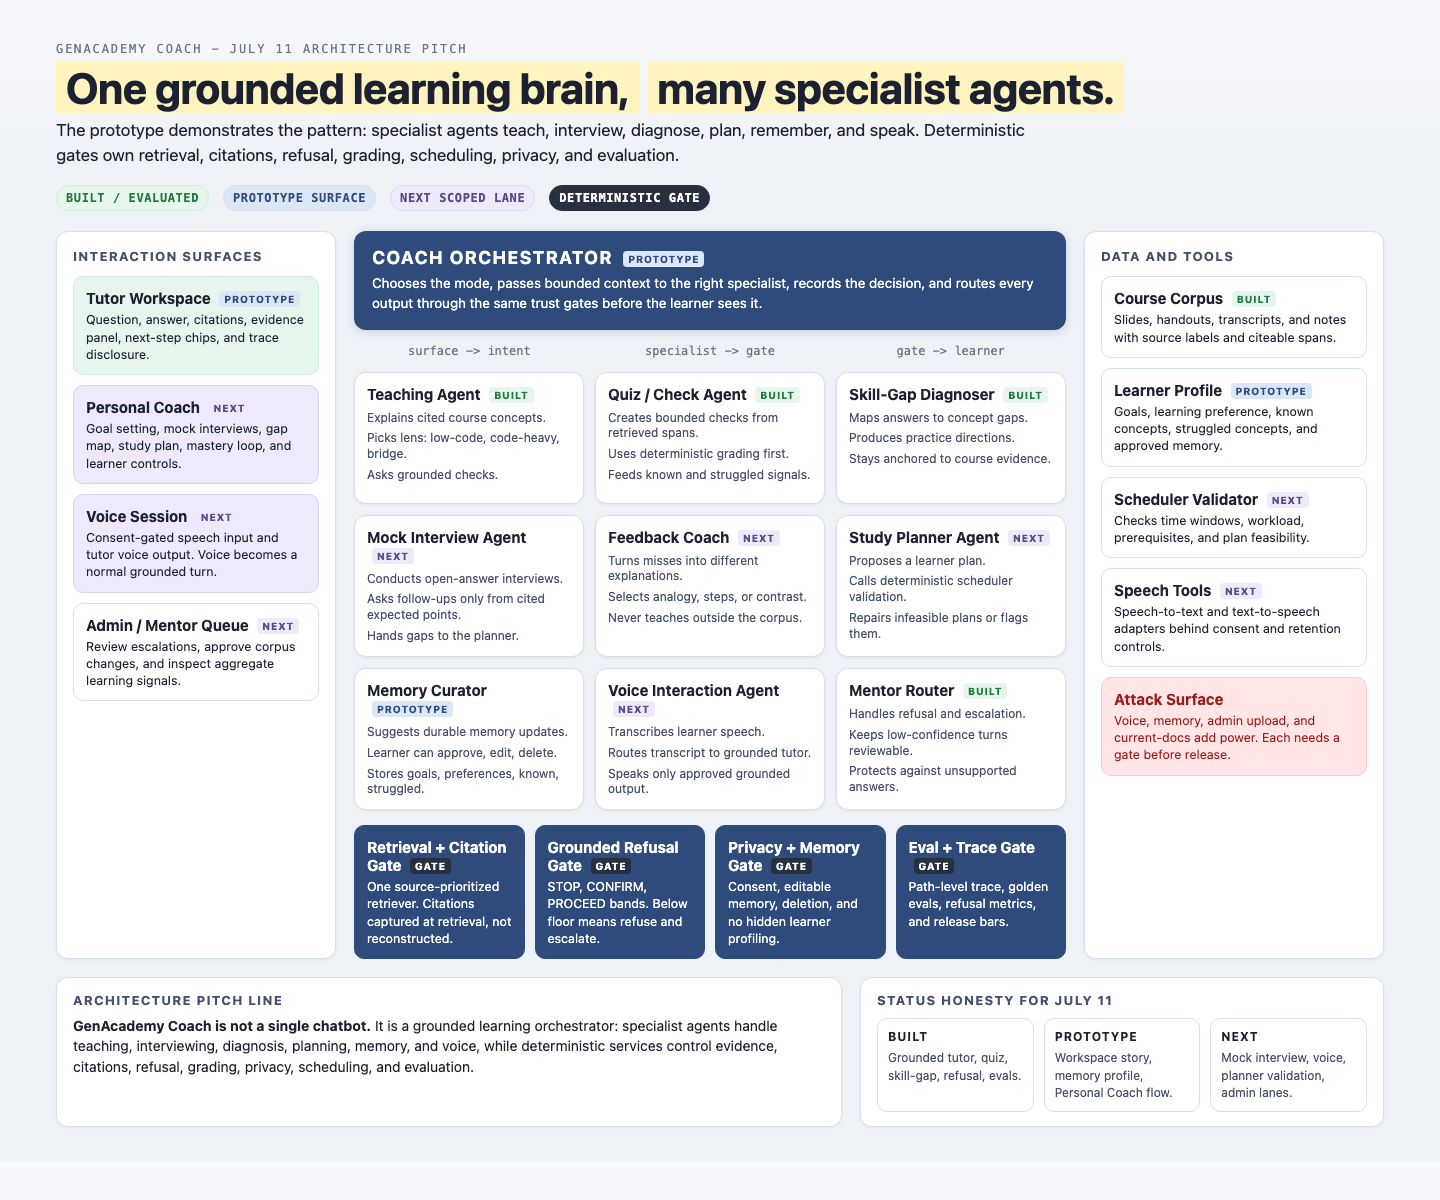
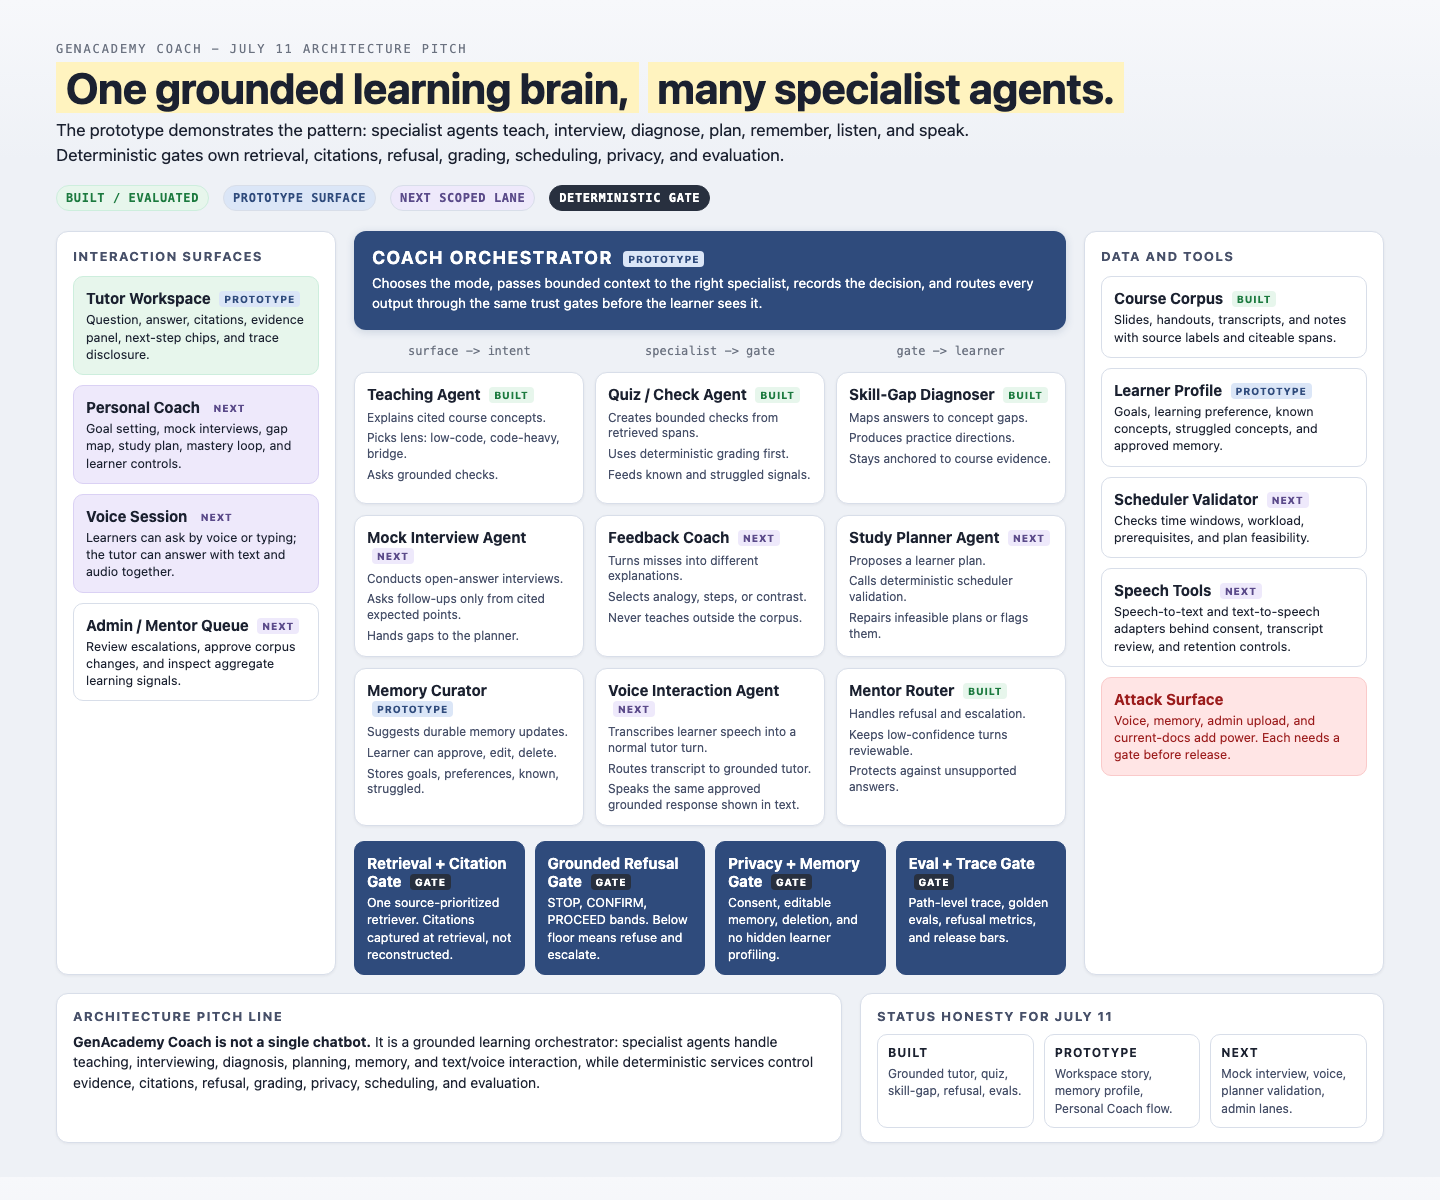
docs: integrate voice into pitch architecture

diff --git a/docs/assets/pitch/personal-coach-prototype-storyboard.html b/docs/assets/pitch/personal-coach-prototype-storyboard.html
@@ -114,7 +114,7 @@
       <button class="tab" data-screen="memory"><b>3. Memory Profile</b><span>Consent, edit, delete</span></button>
       <button class="tab" data-screen="interview"><b>4. Mock Interview</b><span>Specialized interviewer + evaluator</span></button>
       <button class="tab" data-screen="plan"><b>5. Study Plan</b><span>LLM proposes, scheduler validates</span></button>
-      <button class="tab" data-screen="voice"><b>6. Voice Session</b><span>Speech becomes a grounded turn</span></button>
+      <button class="tab" data-screen="voice"><b>6. Voice Session</b><span>Ask by voice, hear the tutor too</span></button>
     </nav>
 
     <section class="panel">
@@ -293,7 +293,7 @@
 
       <article class="screen" id="screen-voice">
         <div class="screenHead">
-          <div><h2>Voice agent lane</h2><p class="desc">Voice adds a natural interface, not a new trust model. Speech is transcribed, grounded, checked, then spoken.</p></div>
+          <div><h2>Voice tutor session</h2><p class="desc">Learners can ask by voice instead of typing, and the tutor can respond with synchronized text plus spoken audio.</p></div>
           <span class="screenTag next">next lane</span>
         </div>
         <div class="mockSurface">
@@ -301,9 +301,9 @@
             <h3>Voice turn pipeline</h3>
             <div class="timeline">
               <div class="step"><div class="num">1</div><p>Consent prompt and visible recording state.</p></div>
-              <div class="step"><div class="num">2</div><p>Speech-to-text transcript enters the normal orchestrator.</p></div>
+              <div class="step"><div class="num">2</div><p>Speech-to-text transcript enters the same orchestrator as typed questions.</p></div>
               <div class="step"><div class="num">3</div><p>Grounded tutor retrieves, cites, and passes refusal gate.</p></div>
-              <div class="step"><div class="num">4</div><p>Text-to-speech reads only the approved grounded answer.</p></div>
+              <div class="step"><div class="num">4</div><p>The approved answer appears as text and plays as tutor voice at the same time.</p></div>
             </div>
           </div>
           <div class="box">
@@ -311,7 +311,7 @@
             <ul>
               <li>Mute and stop always visible.</li>
               <li>Transcript shown before memory save.</li>
-              <li>Voice output never hides citations.</li>
+              <li>Voice output never hides citations; the text answer keeps them visible.</li>
               <li>Refusal still routes to mentor escalation.</li>
             </ul>
           </div>
@@ -321,7 +321,7 @@
           </div>
           <div class="box blue">
             <h3>Architecture rule</h3>
-            <p>The voice agent cannot answer directly. It is an interface adapter around the same grounded tutor, memory gate, and evaluation trace.</p>
+            <p>The voice agent is first-class I/O, not an independent reasoning path. It wraps the same grounded tutor, memory gate, and evaluation trace.</p>
           </div>
         </div>
       </article>

diff --git a/docs/assets/pitch/target-agentic-architecture.html b/docs/assets/pitch/target-agentic-architecture.html
@@ -84,7 +84,7 @@
   <div class="eyebrow mono">GenAcademy Coach - July 11 architecture pitch</div>
   <h1><span>One grounded learning brain,</span> <span>many specialist agents.</span></h1>
   <p class="sub">The prototype demonstrates the pattern: specialist agents teach, interview,
-    diagnose, plan, remember, and speak. Deterministic gates own retrieval, citations, refusal,
+    diagnose, plan, remember, listen, and speak. Deterministic gates own retrieval, citations, refusal,
     grading, scheduling, privacy, and evaluation.</p>
 
   <div class="legend mono">
@@ -107,7 +107,7 @@
       </div>
       <div class="node purple">
         <h3>Voice Session <span class="tag nextTag">next</span></h3>
-        <p>Consent-gated speech input and tutor voice output. Voice becomes a normal grounded turn.</p>
+        <p>Learners can ask by voice or typing; the tutor can answer with text and audio together.</p>
       </div>
       <div class="node">
         <h3>Admin / Mentor Queue <span class="tag nextTag">next</span></h3>
@@ -182,9 +182,9 @@
         <div class="agent">
           <h3>Voice Interaction Agent <span class="tag nextTag">next</span></h3>
           <ul>
-            <li>Transcribes learner speech.</li>
+            <li>Transcribes learner speech into a normal tutor turn.</li>
             <li>Routes transcript to grounded tutor.</li>
-            <li>Speaks only approved grounded output.</li>
+            <li>Speaks the same approved grounded response shown in text.</li>
           </ul>
         </div>
         <div class="agent">
@@ -232,7 +232,7 @@
       </div>
       <div class="node">
         <h3>Speech Tools <span class="tag nextTag">next</span></h3>
-        <p>Speech-to-text and text-to-speech adapters behind consent and retention controls.</p>
+        <p>Speech-to-text and text-to-speech adapters behind consent, transcript review, and retention controls.</p>
       </div>
       <div class="node rose">
         <h3>Attack Surface</h3>
@@ -245,7 +245,7 @@
     <div class="callout">
       <h2>Architecture pitch line</h2>
       <p><b>GenAcademy Coach is not a single chatbot.</b> It is a grounded learning orchestrator:
-        specialist agents handle teaching, interviewing, diagnosis, planning, memory, and voice,
+        specialist agents handle teaching, interviewing, diagnosis, planning, memory, and text/voice interaction,
         while deterministic services control evidence, citations, refusal, grading, privacy,
         scheduling, and evaluation.</p>
     </div>

diff --git a/docs/assets/pitch/agent-orchestration-flow.md b/docs/assets/pitch/agent-orchestration-flow.md
@@ -6,7 +6,7 @@ orchestrator → specialist agents → deterministic trust gates → learner-fac
 
 **Status labels for the pitch:** grounded tutor, quiz/check, skill-gap diagnosis, refusal, citations,
 and eval traces are the proven pattern. Personal Coach, memory profile, mock interview, study planner,
-and voice are target lanes to build incrementally behind the same gates.
+and voice I/O are target lanes to build incrementally behind the same gates.
 
 ## Core Orchestration Diagram
 
@@ -14,9 +14,13 @@ and voice are target lanes to build incrementally behind the same gates.
 flowchart LR
     Learner["Learner"]
     UI["Tutor Workspace / Personal Coach UI"]
+    Voice["Voice Interaction Agent\nspeech input + spoken tutor response"]
+    VoiceConsent["Consent + Transcript Review Gate"]
     Orchestrator["Coach Orchestrator"]
+    Response["Grounded Tutor Response"]
 
     Learner --> UI --> Orchestrator
+    Learner --> Voice --> VoiceConsent --> Orchestrator
 
     Orchestrator --> Tutor["Teaching Agent"]
     Orchestrator --> Quiz["Quiz / Check Agent"]
@@ -34,40 +38,51 @@ flowchart LR
 
     Trust --> Corpus["Course Corpus / RAG"]
     Trust --> Refusal["Refuse + Mentor Escalation"]
+    Trust --> Response
     Scheduler --> Plan["Personal Study Plan"]
     Privacy --> Profile["Learner Profile: goals, known, struggled, preferences"]
 
     Profile --> Orchestrator
     Plan --> UI
+    Plan --> Voice
     Refusal --> UI
+    Refusal --> Voice
     Corpus --> UI
+    Response --> UI
+    Response --> Voice --> Learner
 ```
 
-## Voice Extension
+## Voice I/O In The Core Loop
 
-Voice is an interaction lane, not a new answer brain. Speech is converted into a normal grounded
-tutor turn; the spoken response is generated only after retrieval, citation, refusal, and privacy gates
-approve the text answer.
+Voice is a first-class input/output mode for the same tutor loop. The learner can speak instead of
+typing, and the coach can return the answer as text plus spoken audio at the same time. The voice
+agent still does not answer directly: it captures speech, manages consent/transcript review, and speaks
+only the grounded response that already passed retrieval, citation, refusal, privacy, and trace gates.
 
 ```mermaid
 flowchart LR
     Learner["Learner"]
-    Voice["Voice Interaction Agent"]
+    TextUI["Text UI"]
+    Voice["Voice Interaction Agent\nSTT + TTS"]
     Consent["Consent + Visible Recording State"]
     Transcript["Reviewed Transcript"]
     Orchestrator["Coach Orchestrator"]
     Trust["Grounding + Citation Gate"]
     Privacy["Privacy + Memory Gate"]
-    TTS["Tutor Voice Output"]
+    Response["Approved Tutor Response"]
 
+    Learner --> TextUI --> Orchestrator
     Learner --> Consent --> Voice --> Transcript --> Orchestrator
-    Orchestrator --> Trust --> Privacy --> TTS --> Learner
+    Orchestrator --> Trust --> Privacy --> Response
+    Response --> TextUI --> Learner
+    Response --> Voice --> Learner
 ```
 
 ## Pitch Line
 
 GenAcademy Coach is not a single chatbot. It is a grounded learning orchestrator: specialist agents
-teach, interview, diagnose gaps, plan study, curate memory, and support voice interaction, while
+teach, interview, diagnose gaps, plan study, curate memory, and support simultaneous text/voice
+interaction, while
 deterministic services control retrieval, citations, refusal, grading, scheduling, privacy, and
 evaluation.
 
